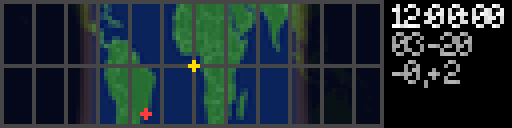
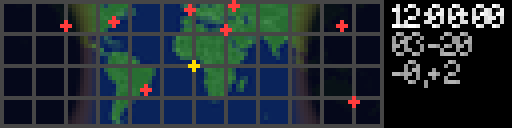
fix(geochron): widen wide_sidebar latitude band to +-60 degrees
The aspect-derived lat_half formula always floored to 30 degrees for
wide_sidebar's aspect range (>=3.0), restricting the visible map to
-30..+30 latitude and hiding North America, Europe, Russia, and most
of Asia. Fixed at +-60 degrees, which covers all 8 default cities
(max |lat| is Moscow at 55.75) on 128x32/192x48/256x32 panels.

Regenerated previews and golden images for 128x32/256x32.

diff --git a/plugins/geochron/geochron_renderer.py b/plugins/geochron/geochron_renderer.py
@@ -37,8 +37,13 @@ def _layout(dw, dh, map_center_lon=0.0):
         sidebar_w = max(32, int(dw * 0.22))
         map_w = dw - sidebar_w
         map_h = dh
-        map_aspect = map_w / map_h
-        lat_half = max(30.0, min(90.0, 90.0 / map_aspect))
+        # Fixed +-60 degree latitude band: covers all default cities (max
+        # |lat| is Moscow at 55.75) and nearly all populated land, while
+        # excluding only the sparsely-populated polar regions. The
+        # aspect-based formula this replaced always floored to 30 degrees
+        # for wide_sidebar's aspect range (>=3.0), hiding most of North
+        # America, Europe, and northern Asia.
+        lat_half = 60.0
         lon_extent = 360.0
         lon_center = 0.0
     elif aspect >= 1.5:
